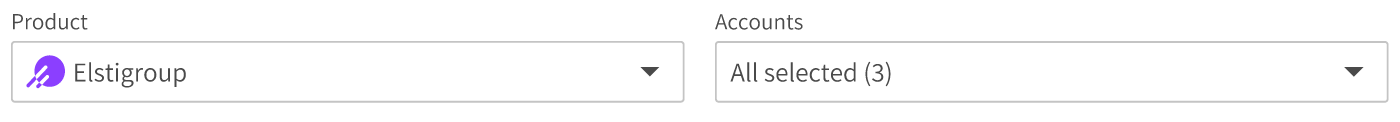
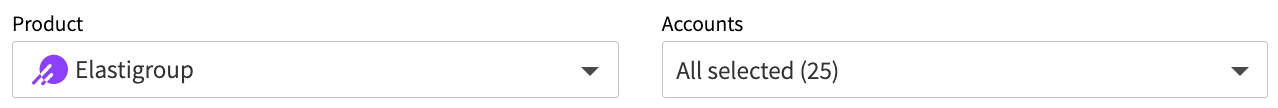
optimize

diff --git a/src/docs/connect-your-cloud-provider/optimize.md b/src/docs/connect-your-cloud-provider/optimize.md
@@ -1,3 +1,83 @@
 # Optimize your Cloud
 
-This page under construction
+The Optimization page shows key areas in your accounts where you can achieve significant optimizations and provides actionable recommendations that you can start implementing with the click of a button.
+
+To get started, go to Overview in the left sidebar of the Spot console and click Optimization.
+
+<img src="/connect-your-cloud-provider/_media/optimize-your-cloud-001.png" />
+
+### Cloud Provider
+
+The data on the page is summarized per cloud provider. If you have multiple accounts connected to Spot, choose the cloud provider you want to see (AWS, Azure or GCP).
+
+### Filters
+
+You can use the filters to choose where you want to focus your optimization analysis.
+
+<img src="/connect-your-cloud-provider/_media/optimize-your-cloud-002.png" width="400" />
+
+- Product: Choose Elastigroup, Ocean or Eco. The default view is Elastigroup.
+  - If you choose Ocean or Elastigroup, continue reading below about the Accounts filter, the Summary line, and Workloads.
+  - If you choose Eco, [skip down](connect-your-cloud-provider/optimize?id=eco) the page for further information.
+- Accounts: Select one or multiple accounts. You can also analyze across all accounts.
+
+## Summary Line
+
+The summary line provides some data about savings you have missed and estimated savings you could achieve over the next year.
+
+<img src="/connect-your-cloud-provider/_media/optimize-your-cloud-003.png" />
+
+- Last Week Missed Savings: The amount you could have saved over the past week by optimizing workloads across the selected accounts.
+- Instances: Number of instances you have had running over the last month.
+- Estimated Monthly Savings: Estimate of savings you could achieve over the next month by letting Spot manage your workloads on Spot instances. In addition, you can see the savings rate as a percent.
+- Estimated Annual Savings: Estimate of savings you could achieve over the next year by letting Spot manage your workloads on Spot instances.
+
+## Workloads
+
+The Workloads area shows your services and workloads where you can achieve the most savings. Spot analyzes your cloud resources and displays workloads that are not yet connected to Spot (Elastigroup or Ocean). You can take action immediately and import those workloads and enjoy the cost savings and optimization features.
+
+<img src="/connect-your-cloud-provider/_media/optimize-your-cloud-005.png" />
+
+### Filter by Services
+
+The row of tiles shows savings data for each of the services and is in descending order from the left,  with the greatest potential savings on the far left.
+
+The table below lists the workloads, and by default, the 10 workloads with the most savings to gain are listed first.
+
+You can filter the workloads that appear in the table by clicking on one or more of the tiles (i.e., a service) above. For example, if you click ELB, as shown below, only the ELB workloads appear in the table.
+
+<img src="/connect-your-cloud-provider/_media/optimize-your-cloud-006.png" />
+
+### Filter by Keyword
+
+Alternatively, you can use the Filter box and filter by keyword.
+
+<img src="/connect-your-cloud-provider/_media/optimize-your-cloud-007.png" width="300" />
+
+### Actionable List of Workloads
+
+The list of workloads shows the results of any of the filters you apply. The workloads are listed in descending order, with the workload with most potential savings at the top.
+
+To start realizing the savings immediately, click Get started in the Actions column.
+
+<img src="/connect-your-cloud-provider/_media/optimize-your-cloud-008.png" />
+
+This will start the import process either to Elastigroup or Ocean (depending on which product you are viewing).
+
+<img src="/connect-your-cloud-provider/_media/optimize-your-cloud-009.png" width="400" />
+
+## Eco
+
+If you chose Eco in the Product field, and you do not yet have Eco, you will be prompted to sign up for Eco.
+
+<img src="/connect-your-cloud-provider/_media/optimize-your-cloud-010.png" width="500" />
+
+Once you have completed the sign-up for Eco, you will be connected to Spot with a management account. The next step is to choose a Strategy.
+
+<img src="/connect-your-cloud-provider/_media/optimize-your-cloud-011.png" width="500" />
+
+Once you have a Strategy, you will be directed to the Eco Optimization page.
+
+## What’s Next?
+
+Learn more about Spot’s [cost analysis](cloud-analyzer/tutorials/analyze-your-costs) of your cloud resources.
